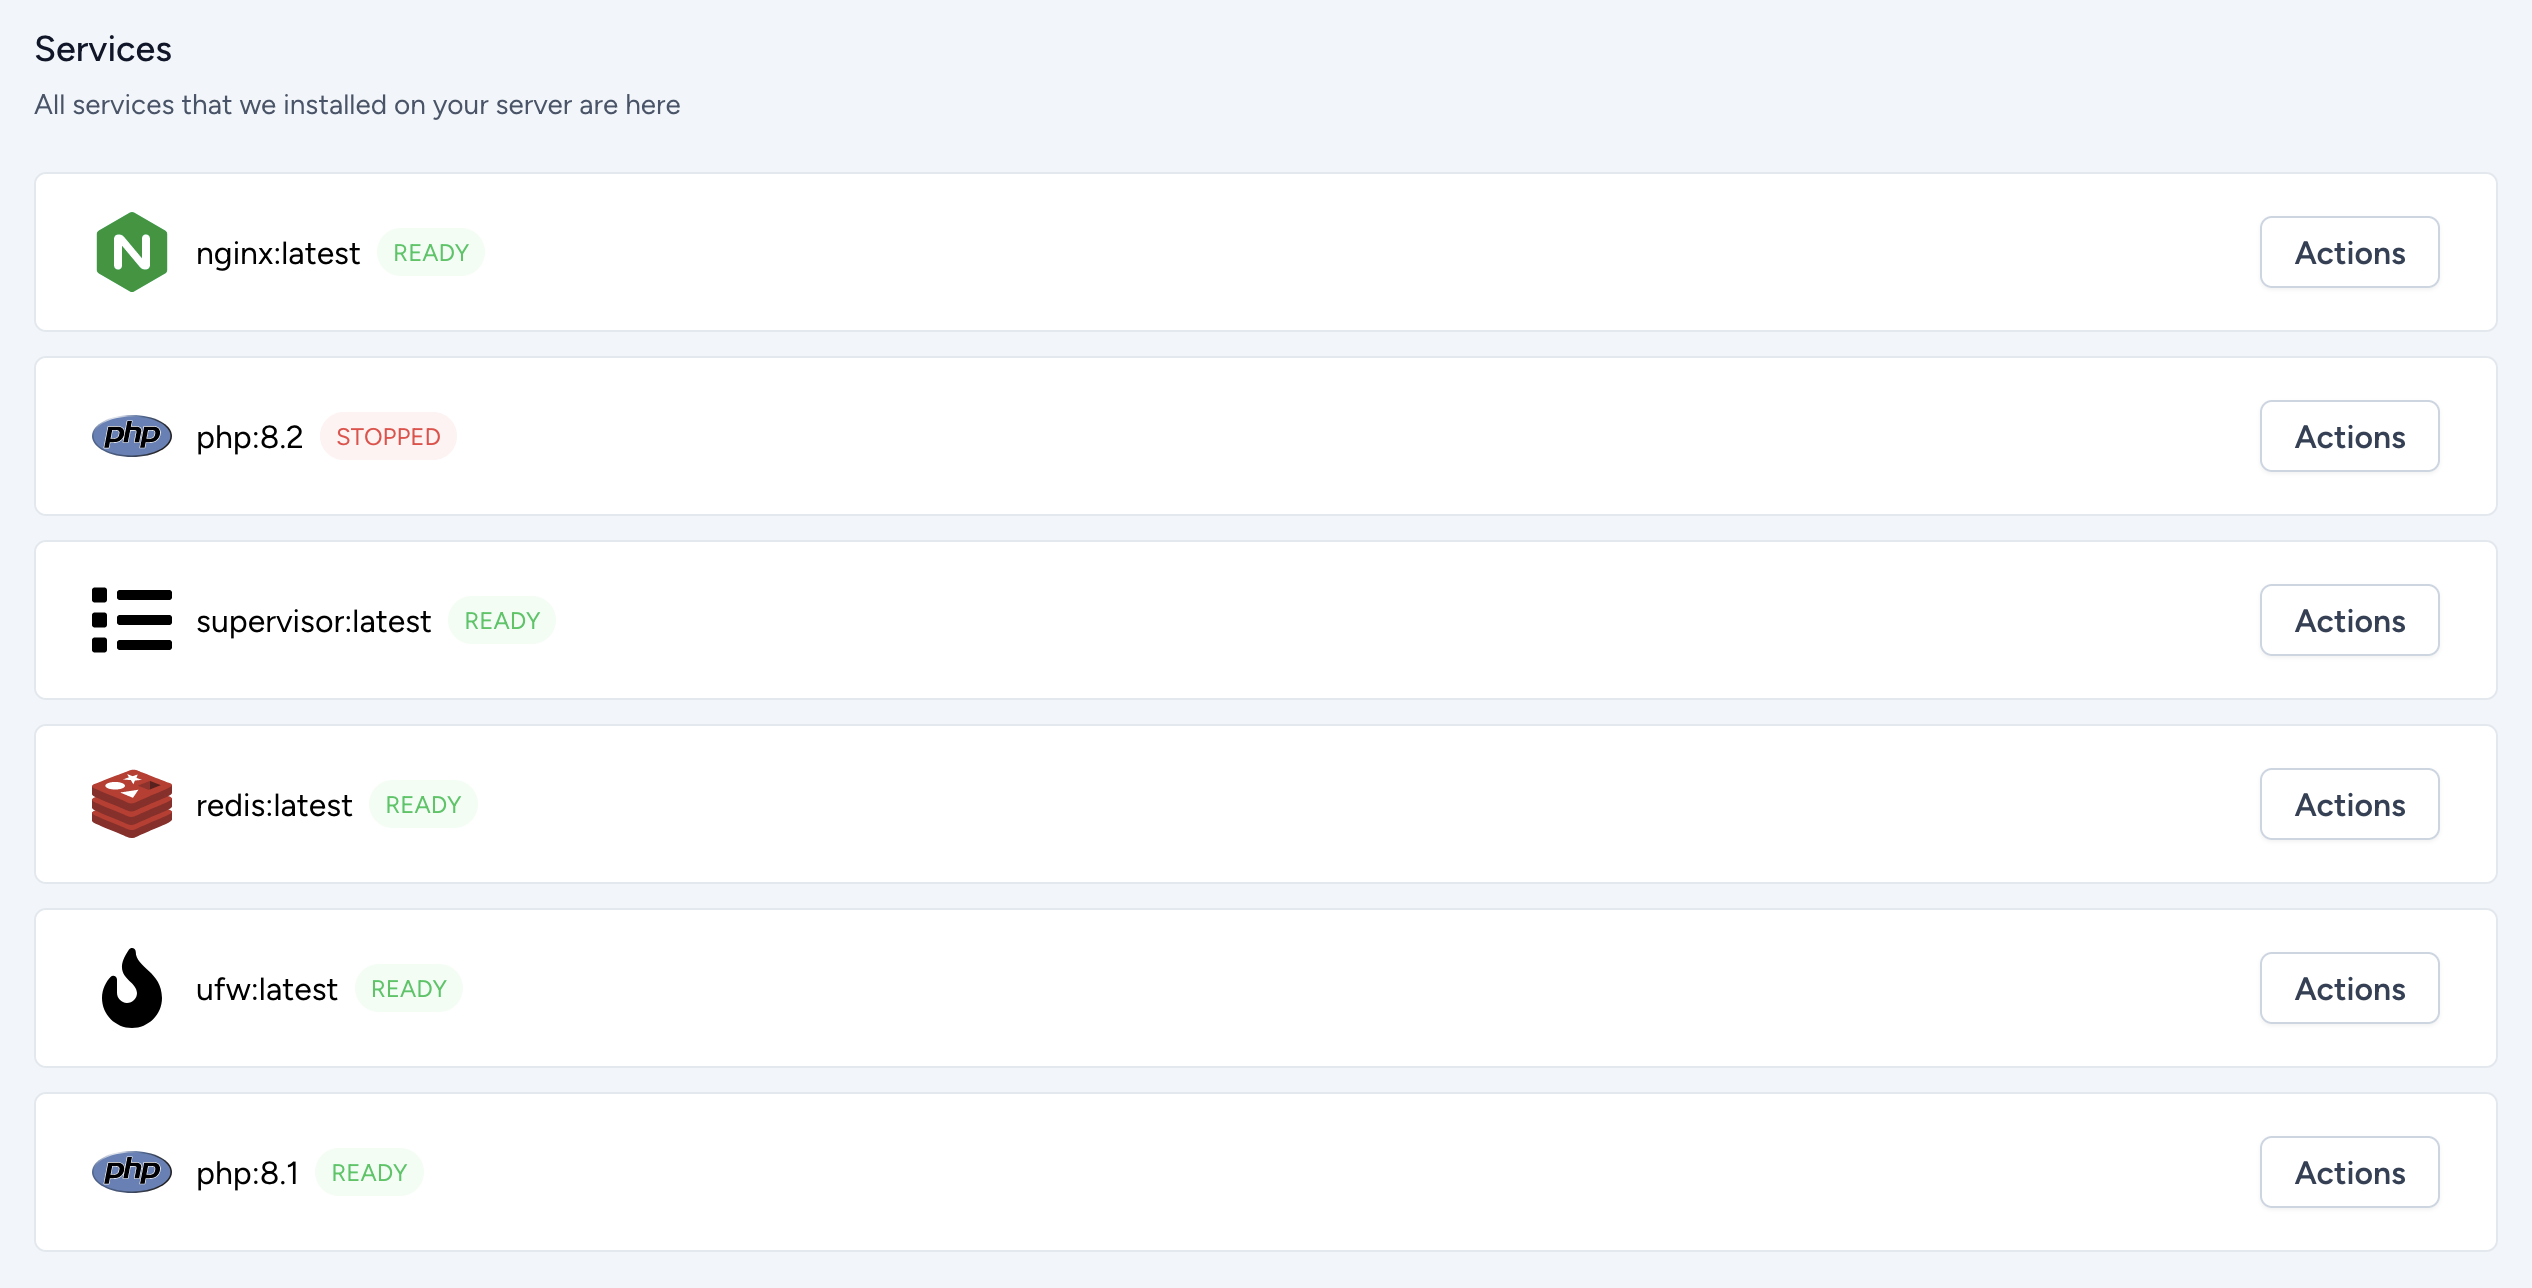
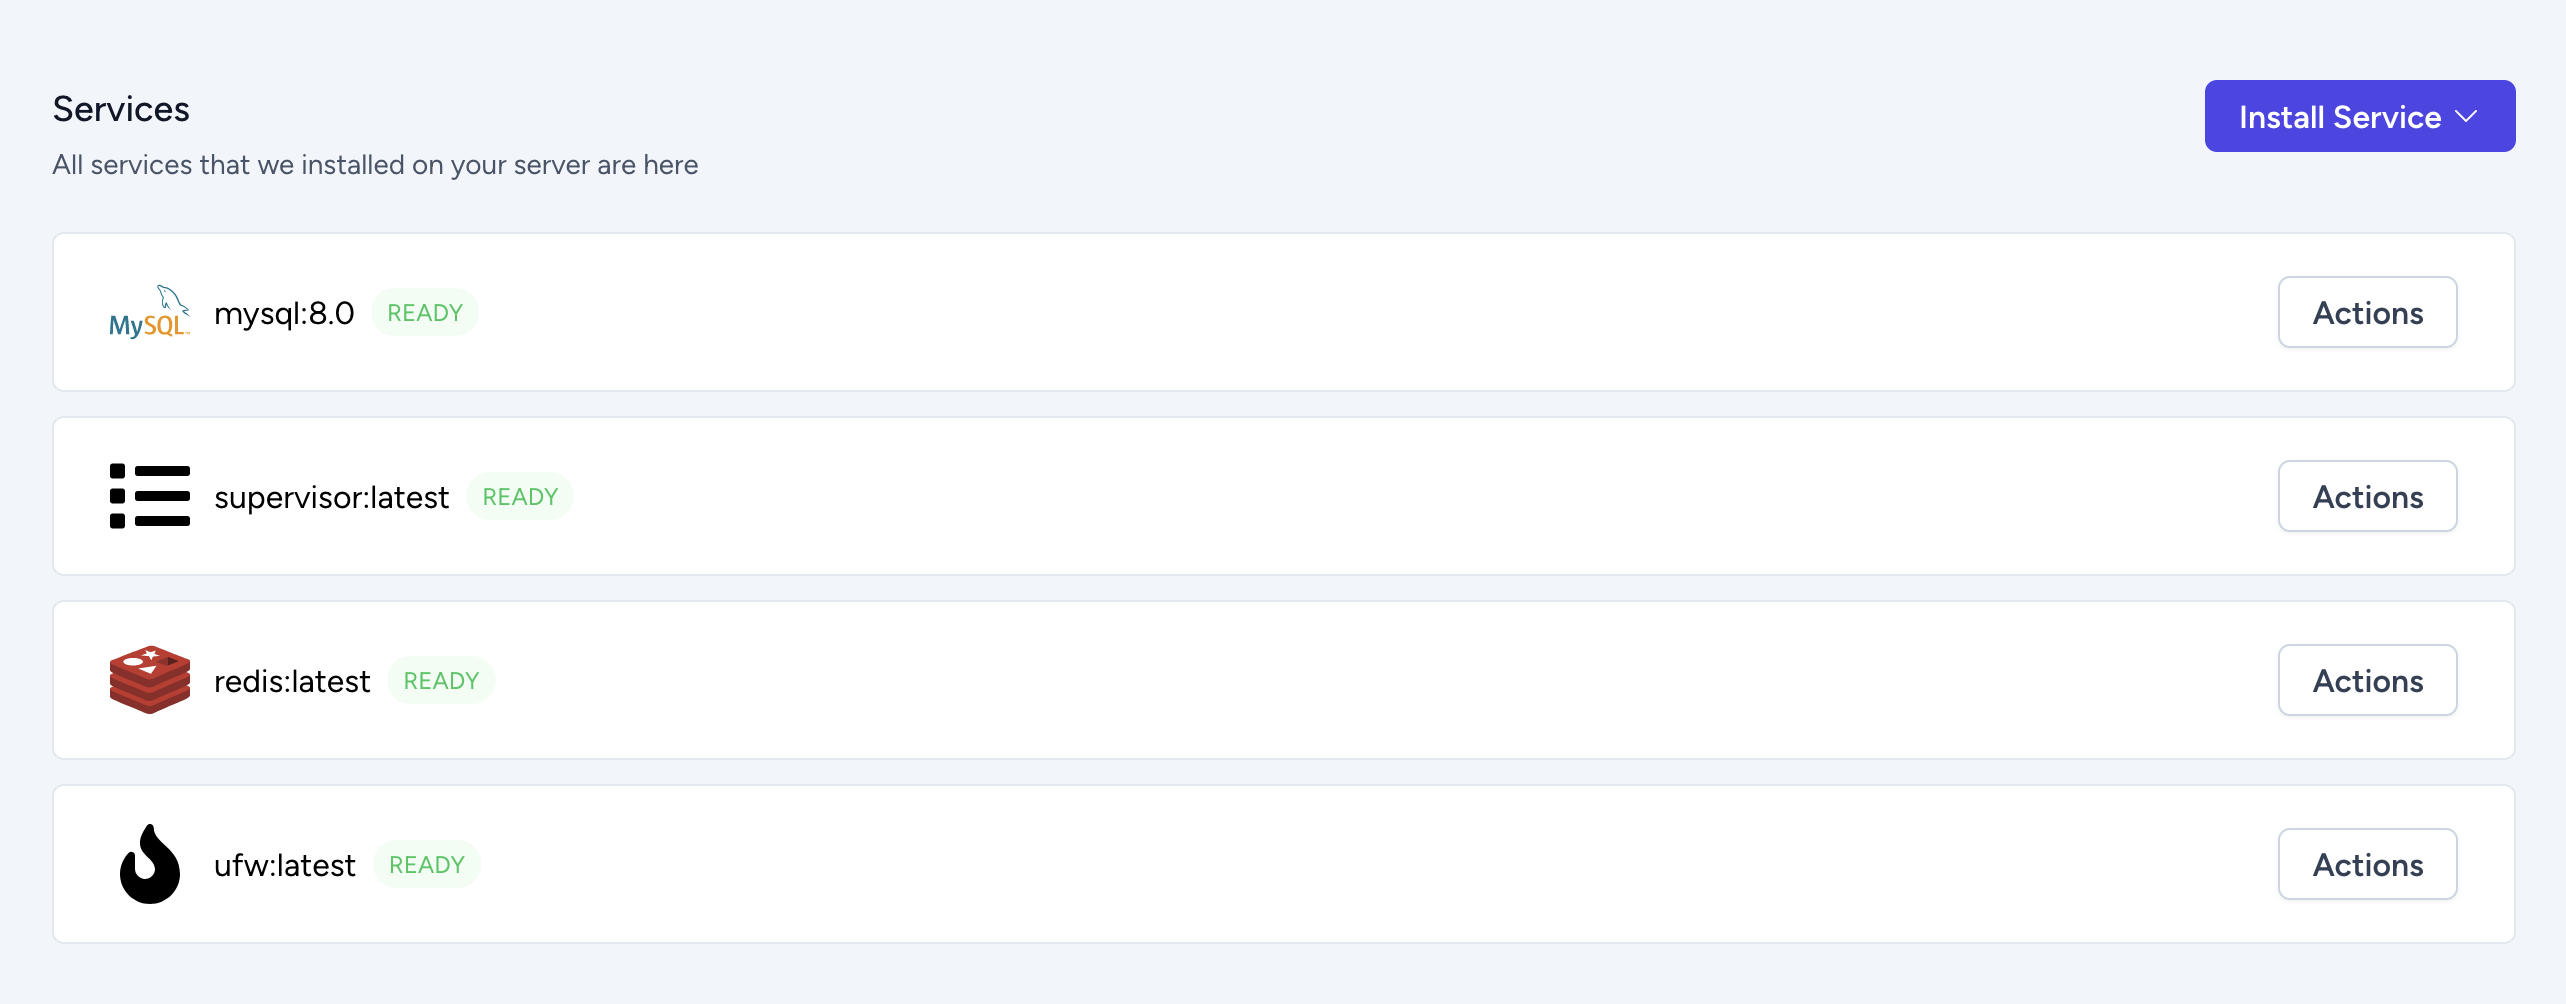
phpmyadmin

diff --git a/servers/services.md b/servers/services.md
@@ -5,3 +5,19 @@ Here you can see the list of services that Vito installed on your server.
 ![Services](/servers/services.png)
 
 You can do operational tasks on the services such as `Start`, `Stop` and `Restart`
+
+## PHPMyAdmin
+
+You can also install PHPMyAdmin if you've installed Mysql on your server.
+
+In the services page you can find the `Install Service` dropdown and under that you can hit the `PHPMyAdmin` to install it.
+
+To install PHPMyAdmin you need to provide the `Allowed IP` and `Port`.
+
+The `Allowed IP` will enable the PHPMyAdmin to be accessible only via that IP address.
+
+Vito will install the PHPMyAdmin on the `Port` you provide in the installation form.
+
+So after the installation, PHPMyAdmin will be availble on `Your-Server-IP:Port`.
+
+The default Port is `5433`.
